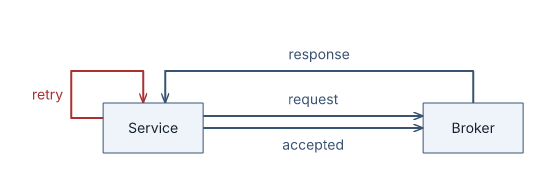
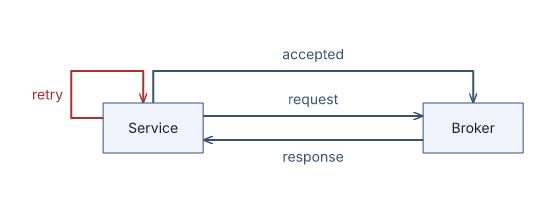
Keep later routes clear of arrowheads and refresh parallel example

diff --git a/src/route/geometry.rs b/src/route/geometry.rs
@@ -274,7 +274,23 @@ pub(super) fn route_is_clear(points: &[Point], boxes: &[BoxNode], previous: &[Ro
             return false;
         }
         for route in previous {
-            if route.qualifiers.iter().any(|qualifier| {
+            let markers = [
+                (route.points[0], route.appearance.start),
+                (*route.points.last().unwrap(), route.appearance.end),
+            ];
+            if markers.iter().any(|(point, symbol)| {
+                *symbol != crate::syntax::EndSymbol::None && {
+                    let radius = 14.0 + route.width / 2.0;
+                    segment_hits_rect(
+                        pair[0],
+                        pair[1],
+                        point.x - radius,
+                        point.y - radius,
+                        2.0 * radius,
+                        2.0 * radius,
+                    )
+                }
+            }) || route.qualifiers.iter().any(|qualifier| {
                 segment_hits_rect(
                     pair[0],
                     pair[1],
@@ -360,6 +376,29 @@ mod tests {
             height: 8.0,
         });
         assert!(!route_is_clear(&later, &[], &[older]));
+    }
+    #[test]
+    fn new_routes_do_not_clip_existing_arrowheads() {
+        let mut old = Route {
+            points: vec![p(0.0, 100.0), p(200.0, 100.0)],
+            qualifiers: vec![],
+            bridges: vec![],
+            gaps: vec![],
+            label: None,
+            end_labels: vec![],
+            from: 0,
+            to: 1,
+            color: String::new(),
+            width: 2.0,
+            font_size: 14.0,
+            bidirectional: false,
+            marker_end: false,
+            appearance: Default::default(),
+        };
+        let later = [p(190.0, 112.0), p(210.0, 112.0)];
+        assert!(route_is_clear(&later, &[], &[old.clone()]));
+        old.appearance.end = crate::syntax::EndSymbol::Arrow;
+        assert!(!route_is_clear(&later, &[], &[old]));
     }
     #[test]
     fn folded_note_uses_diagonal_stroke_for_ports_and_obstacles() {

diff --git a/tests/parallel_loops.rs b/tests/parallel_loops.rs
@@ -18,24 +18,15 @@ fn parallel_relations_and_self_loop_have_distinct_paths() {
     assert_ne!(routed[1].points[0].y, routed[2].points.last().unwrap().y);
     assert_eq!(routed[3].from, routed[3].to);
     assert!(routed[3].points.len() >= 5);
-    // The return relation detours above the boxes without diagonal stubs
-    // from its offset boundary ports to the horizontal lane.
-    assert!(routed[2].points.len() >= 4);
-    let service = &boxes[0];
-    let broker = &boxes[1];
-    assert!(
-        (routed[2].points[0].x - (broker.x + broker.width / 2.0)).abs() < 1e-6,
-        "the return arrow has sole use of Broker's top face"
-    );
-    assert!(
-        routed[2].points.last().unwrap().x > service.x + service.width / 2.0,
-        "Service reserves separate top ports for the return arrow and self-loop"
-    );
-    assert!(
-        routed[2].points.windows(2).all(
+    // The router may choose either the return relation or an outbound
+    // relation for the detour, but distinct paths remain orthogonal.
+    assert!(routed[..3].iter().any(|r| r.points.len() >= 4));
+    assert_ne!(routed[0].points, routed[2].points);
+    for relation in &routed[..3] {
+        assert!(relation.points.windows(2).all(
             |pair| (pair[0].x - pair[1].x).abs() < 1e-6 || (pair[0].y - pair[1].y).abs() < 1e-6
-        )
-    );
+        ));
+    }
 }
 
 #[test]

diff --git a/tests/documentation.rs b/tests/documentation.rs
@@ -111,7 +111,9 @@ fn every_published_example_checks_and_builds() {
         let actual = resvg::tiny_skia::Pixmap::decode_png(&png(&svg).unwrap()).unwrap();
         assert_eq!(
             (expected.width(), expected.height()),
-            (actual.width(), actual.height())
+            (actual.width(), actual.height()),
+            "{}",
+            path.display()
         );
         // Cross-platform rasterizers can round a few antialiased edge pixels
         // differently; large visible changes must still update the screenshot.

diff --git a/docs/v1.3-status.md b/docs/v1.3-status.md
@@ -30,7 +30,7 @@ Do not update Cargo version, tag, push or publish a v1.3 release until every rel
 ## Open before v1.3 can be claimed complete
 
 - Finish ID scoping and overload resolution across all declaration kinds. Sequence participants, named messages, notes, continuations and fragment IDs now share one validated namespace; execution IDs remain lifeline-scoped. Graph packages, members and named ports support qualified scoped defaults and diagram-wide explicit IDs. Member and multiline-note bodies now return parsing to their containing package rather than accidentally ending the package; repeated names in different packages resolve to the nearest scope, root-qualified default paths cannot be shadowed by nested packages, and explicit member IDs remain stable when moved. A diagram-wide explicit node/member/port `@id` takes precedence over a local default of the same spelling, keeping the global ID addressable; the local default remains reachable through its qualified package path.
-- Finish exact container obstacle/label clearance, edge cases in nonrectangular port geometry, remaining relation-end side routing edge cases under complex label, qualifier and container obstacles, qualifier anchoring for additional complex bends and shared obstacles, complete UML association-end semantics, precise marker clearance/routing, and full UML validation of generalization, realization, dependency, navigability and whole/part diamonds. Association-end text now avoids its own route, bridge arcs and actual end markers; qualifier boxes avoid bridge arcs. New bridges also avoid existing association-end text and qualifier rectangles, not only existing main relation labels. Later routes now avoid the visible hump of an existing bridge even when they do not cross its underlying straight chord. Regression tests, the full local suite and strict Clippy passed for this slice. Broader obstacle cases remain open. Do not mistake an implemented glyph for complete UML validation.
+- Finish exact container obstacle/label clearance, edge cases in nonrectangular port geometry, remaining relation-end side routing edge cases under complex label, qualifier and container obstacles, qualifier anchoring for additional complex bends and shared obstacles, complete UML association-end semantics, precise marker clearance/routing, and full UML validation of generalization, realization, dependency, navigability and whole/part diamonds. Association-end text now avoids its own route, bridge arcs and actual end markers; qualifier boxes avoid bridge arcs. New bridges also avoid existing association-end text and qualifier rectangles, not only existing main relation labels. Later routes now avoid the visible hump of an existing bridge and existing arrowhead regions even when they do not cross the underlying straight chord. The parallel-loop preview was regenerated after the safer route choice. Regression tests, the full local suite and strict Clippy passed for this slice. Broader obstacle cases remain open. Do not mistake an implemented glyph for complete UML validation.
 - Finish UML classifier-specific shapes/ports, mandatory side and end-label layout rules, remaining visibility/abstract/static notation details. Abstract is now accepted only on UML classifier nodes, not on objects, notes or package frames. Classifier visibility and `abstract` may occur in either order; duplicate modifiers reject instead of silently turning into a name. These cases have regression tests. Scoped `compartment[attributes|operations|literals] { display: none }` now hides rows and separators safely; visible references into hidden compartments fail. Basic GNE node icons, UML/GNE visibility glyph replacements and conditional Phosphor metadata are implemented and tested for SVG/PNG/PDF. Basic member, member[kind=...], member[ID], member.style-class and contextual LSS selectors now affect measured color/font-size and explicit member hiding; hidden anchored members fail rather than leaving dangling edges. Default member IDs can be targeted as `Node::member`, with ambiguous overloads rejected; explicitly aliased members have no hidden default alias.
 - Advanced UML template parametered-element semantics and binding-default evaluation are outside this image-language release: no model layer is inferred. The class diagram places comma-separated `<T:Class=String, U:DataType>` source formals in a measured dashed corner box, with local formal names checked and kind/default displayed but not evaluated; GNE retains its inline source heading. Complete package/enum/datatype special rules, complete object-link validation and UML restrictions. Duplicate object slot names now fail even if an explicit member ID would otherwise distinguish the rows. Relation-specific `interface-notation: lollipop` now replaces an unused empty interface with one ball per provider; a referenced box, members, hidden members, or another relation reject the compact form. Simple programming-style field/operation shorthand now normalizes to UML-visible `name: Type` and `name(parameters): ReturnType` (UML 2.5.1 §9.6.4); advanced UML parameter/property syntax and method abstractions still need full review and tests. The clause-level [UML notation audit](uml-class-object-conformance.md) records supported notation and deliberate exclusions, including the mixed class/instance boundary. Do not claim complete UML abstract-syntax or notation conformance.
 - Seven buildable examples and generated previews now cover classes, objects, n-ary associations, nested packages, template bindings, compact interfaces and optional generic icons; all seven also build as SVG, PNG and PDF with the local release binary; existing generic README previews were regenerated after the open-arrow change. README, language reference, language contract and the class/object guide describe the implemented subset; the all-target local suite and preview consistency check pass. Finish documentation review against all agreed semantics, add positive/negative end-to-end tests for remaining constructs, and check all four CI targets. The CI run for remote `ed0a61b` (run 41202946348) succeeded on Linux and both macOS targets but **failed in the Windows cargo test step**. Frieder provided the Windows log: `class_guide_complete_example_builds_all_formats` split the checked-out CRLF guide using an LF-only Markdown fence. The documentation test now normalizes LF/CRLF for both class and sequence guides, asserts that expected blocks exist, and has an LF/CRLF regression test. Local full tests and Clippy pass; rerun the full four-platform CI on a subsequent authenticated push before considering Windows fixed.
